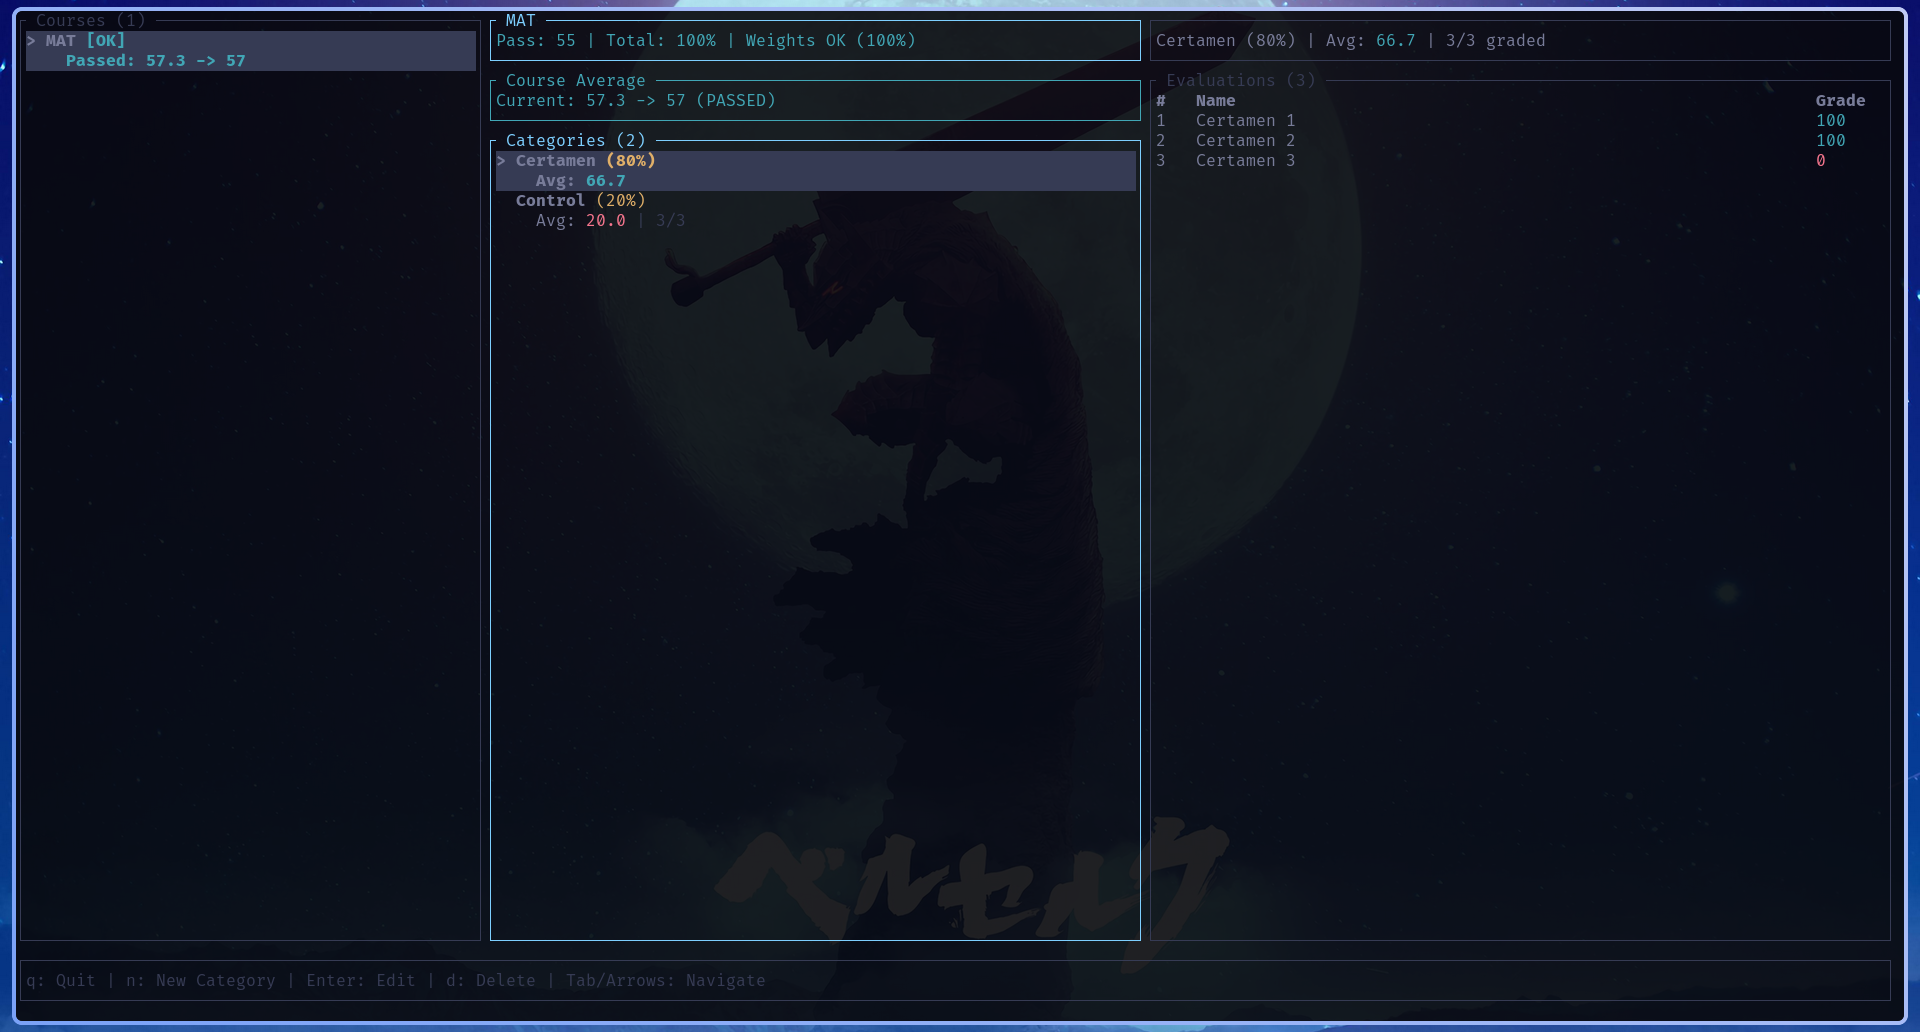
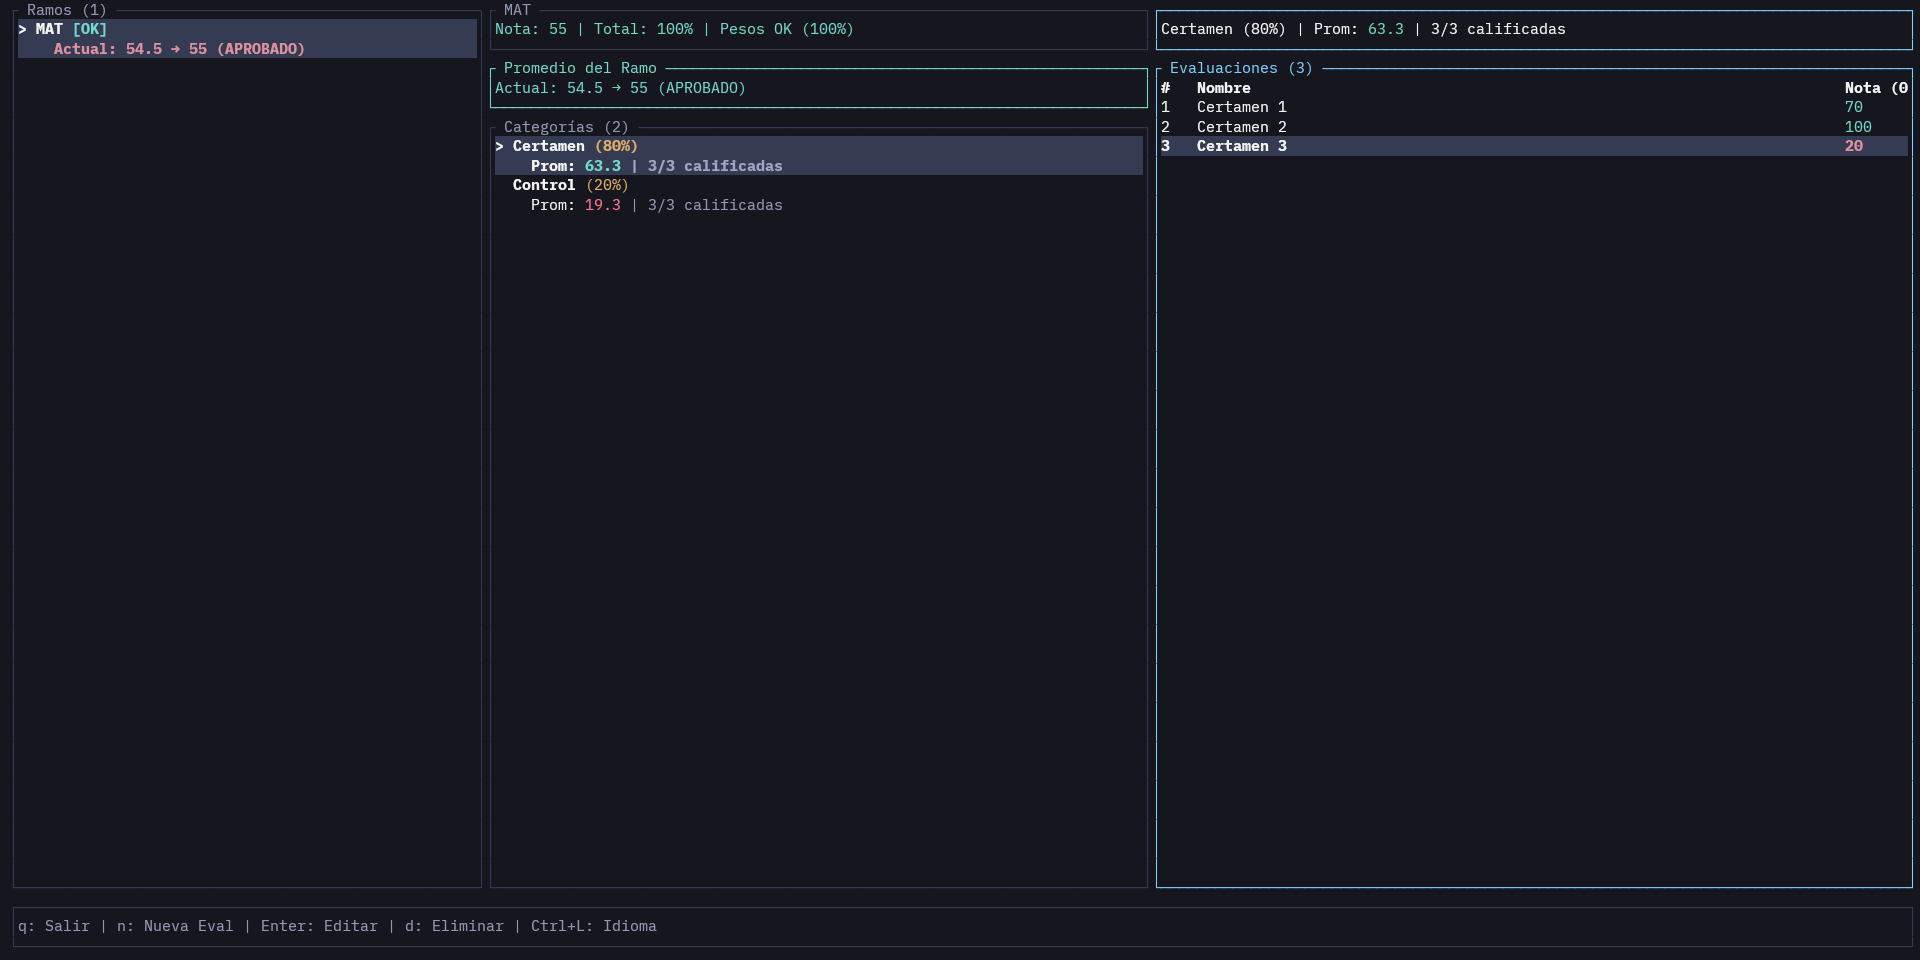
feat(core): improve grade calculation logic and UI feedback
- Change average calculation: treat ungraded evaluations as 0.0 instead of ignoring them.
- Update 'needed to pass' logic to target exact 54.5 passing score.
- Display needed grade with rounding guidance (e.g., '60.12 -> 61').
- Auto-clear grade input field when starting edit on an evaluation.
- Show needed grade calculation during edit by ignoring the current grade.
- Remove unused code and silence warnings.

Changed region(s): [[0.0, 0.0, 1.0, 1.0]]

diff --git a/src/ui.rs b/src/ui.rs
@@ -50,7 +50,7 @@ pub fn draw(frame: &mut Frame, app: &App) {
             draw_category_popup(frame, app, *is_new);
         }
         Screen::EditingEvaluation { is_new } => {
-            draw_evaluation_popup(frame, app, *is_new);
+            draw_evaluation_popup(frame, app, *is_new, !*is_new);
         }
         Screen::ConfirmDelete => {
             draw_delete_popup(frame, app);
@@ -637,7 +637,7 @@ fn draw_category_popup(frame: &mut Frame, app: &App, is_new: bool) {
     }
 }
 
-fn draw_evaluation_popup(frame: &mut Frame, app: &App, is_new: bool) {
+fn draw_evaluation_popup(frame: &mut Frame, app: &App, is_new: bool, is_editing: bool) {
     let m = app.messages();
     let area = centered_rect(60, 50, frame.size());
     frame.render_widget(Clear, area);
@@ -690,7 +690,7 @@ fn draw_evaluation_popup(frame: &mut Frame, app: &App, is_new: bool) {
         let info = if let (Some(cat_idx), Some(eval_idx)) =
             (app.selected_category, app.selected_evaluation)
         {
-            format_needed_for_evaluation(course, cat_idx, eval_idx, m)
+            format_needed_for_evaluation(course, cat_idx, eval_idx, m, is_editing)
         } else {
             format_course_status(course, m)
         };
@@ -947,44 +947,29 @@ use crate::model::Course;
 
 /// Format course status message with translations.
 fn format_course_status(course: &Course, m: &Messages) -> String {
-    let remaining_weight = course.remaining_weight();
-    let all_complete = course.categories.iter().all(|c| c.is_complete());
+    // Check if there are any evaluations at all
+    let has_evaluations = course.categories.iter().any(|c| !c.evaluations.is_empty());
 
-    if all_complete || remaining_weight <= 0.0 {
-        return match course.current_grade() {
-            Some(grade) => {
-                let rounded = Course::round_grade(grade);
-                if course.is_passing_grade(grade) {
-                    format!("{}: {:.1} → {:.0} ({})", m.passed, grade, rounded, m.passed)
-                } else {
-                    format!("{}: {:.1} → {:.0} ({})", m.failed, grade, rounded, m.failed)
-                }
-            }
-            None => m.no_evaluations.to_string(),
-        };
+    if !has_evaluations {
+        return m.no_evaluations.to_string();
     }
 
     match course.current_grade() {
-        Some(current) => {
-            let required = (course.passing_grade - current) * 100.0 / remaining_weight;
-
-            if required <= 0.0 {
-                format!("{}: {:.1} | {}", m.current, current, m.already_passing)
-            } else if required > 100.0 {
+        Some(grade) => {
+            let rounded = Course::round_grade(grade);
+            if course.is_passing_grade(grade) {
                 format!(
-                    "{}: {:.1} | {} ({:.1})",
-                    m.current, current, m.cannot_pass, required
+                    "{}: {:.1} → {:.0} ({})",
+                    m.current, grade, rounded, m.passed
                 )
             } else {
                 format!(
-                    "{}: {:.1} | {} {:.1} ({:.0}%)",
-                    m.current, current, m.need, required, remaining_weight
+                    "{}: {:.1} → {:.0} ({})",
+                    m.current, grade, rounded, m.failed
                 )
             }
         }
-        None => {
-            format!("{} {:.1} {}", m.need, course.passing_grade, m.to_pass)
-        }
+        None => m.no_evaluations.to_string(),
     }
 }
 
@@ -1025,6 +1010,7 @@ fn format_needed_for_evaluation(
     category_idx: usize,
     eval_idx: usize,
     m: &Messages,
+    is_editing: bool,
 ) -> String {
     let Some(category) = course.categories.get(category_idx) else {
         return m.invalid_category.to_string();
@@ -1034,64 +1020,75 @@ fn format_needed_for_evaluation(
         return m.invalid_evaluation.to_string();
     };
 
-    // If already graded, show that info
-    if let Some(grade) = eval.grade {
-        if grade >= course.passing_grade {
-            return format!("{}: {:.0} ({})", eval.name, grade, m.passing);
+    // If already graded and NOT editing, show that info
+    // When editing, we ignore the current grade to show what's needed
+    if !is_editing {
+        if let Some(grade) = eval.grade {
+            if grade >= course.passing_grade {
+                return format!("{}: {:.0} ({})", eval.name, grade, m.passing);
+            }
+            return format!("{}: {:.0} ({})", eval.name, grade, m.below_passing);
         }
-        return format!("{}: {:.0} ({})", eval.name, grade, m.below_passing);
     }
 
-    // Calculate current contributions from all categories
+    // Calculate total contribution from all categories, treating ungraded evals as 0
+    // except for the current evaluation we're calculating for
     let mut total_contribution = 0.0;
-    let mut total_weight_graded = 0.0;
 
     for (ci, cat) in course.categories.iter().enumerate() {
         if ci == category_idx {
-            let other_grades: Vec<f64> = cat
+            // For the current category, sum all other evaluations (ungraded = 0)
+            // When editing, we also treat the current evaluation as 0
+            let other_sum: f64 = cat
                 .evaluations
                 .iter()
                 .enumerate()
-                .filter(|(ei, e)| *ei != eval_idx && e.grade.is_some())
-                .filter_map(|(_, e)| e.grade)
-                .collect();
-
-            if !other_grades.is_empty() {
-                let other_avg = other_grades.iter().sum::<f64>() / other_grades.len() as f64;
-                let graded_count = other_grades.len();
-                let total_evals = cat.evaluations.len();
-                let partial_weight = cat.weight * (graded_count as f64 / total_evals as f64);
-                total_contribution += other_avg * partial_weight / 100.0;
-                total_weight_graded += partial_weight;
+                .map(|(ei, e)| {
+                    if ei == eval_idx {
+                        0.0 // Always treat current eval as 0 for calculation
+                    } else {
+                        e.grade.unwrap_or(0.0)
+                    }
+                })
+                .sum();
+            // This will be added later with the needed grade
+            total_contribution += other_sum * cat.weight / (100.0 * cat.evaluations.len() as f64);
+        } else {
+            // For other categories, all ungraded evals count as 0
+            if !cat.evaluations.is_empty() {
+                let sum: f64 = cat.evaluations.iter().map(|e| e.grade.unwrap_or(0.0)).sum();
+                let avg = sum / cat.evaluations.len() as f64;
+                total_contribution += avg * cat.weight / 100.0;
             }
-        } else if let Some(avg) = cat.average_grade() {
-            total_contribution += avg * cat.weight / 100.0;
-            total_weight_graded += cat.weight;
         }
     }
 
-    let eval_weight = category.weight / category.evaluations.len() as f64;
-    let remaining_weight = 100.0 - total_weight_graded;
+    // Weight of this single evaluation in the final grade
+    let eval_weight = category.weight / (100.0 * category.evaluations.len() as f64);
 
-    if remaining_weight <= 0.0 {
-        return m.all_evaluations_graded.to_string();
-    }
-
-    let effective_passing = course.passing_grade - 0.5;
-    let other_remaining_weight = remaining_weight - eval_weight;
-    let other_remaining_contribution = effective_passing * other_remaining_weight / 100.0;
-
-    let needed_contribution = effective_passing - total_contribution - other_remaining_contribution;
-    let needed_grade = needed_contribution * 100.0 / eval_weight;
+    // We need: total_contribution + (needed_grade * eval_weight) >= 54.5
+    // So: needed_grade = (54.5 - total_contribution) / eval_weight
+    let effective_passing = course.passing_grade - 0.5; // 54.5
+    let needed_grade = (effective_passing - total_contribution) / eval_weight;
 
     if needed_grade <= 0.0 {
         format!("{}: 0+ ({})", m.need, m.need_grade_any)
     } else if needed_grade > 100.0 {
+        let rounded_up = needed_grade.ceil() as i32;
         format!(
-            "{}: {:.0}+ ({})",
-            m.need, needed_grade, m.need_grade_impossible
+            "{}: {:.2} → {} ({})",
+            m.need, needed_grade, rounded_up, m.need_grade_impossible
         )
     } else {
-        format!("{} {:.0}+ {}", m.need, needed_grade, m.need_grade_in_eval)
+        let rounded_up = needed_grade.ceil() as i32;
+        // Only show arrow if there are decimals
+        if (needed_grade - needed_grade.floor()).abs() < 0.01 {
+            format!("{} {} {}", m.need, rounded_up, m.need_grade_in_eval)
+        } else {
+            format!(
+                "{} {:.2} → {} {}",
+                m.need, needed_grade, rounded_up, m.need_grade_in_eval
+            )
+        }
     }
 }

diff --git a/src/model.rs b/src/model.rs
@@ -79,15 +79,19 @@ impl Category {
         }
     }
 
-    /// Calculate the average grade of all graded evaluations in this category.
-    /// Returns None if no evaluations have been graded.
+    /// Calculate the average grade of all evaluations in this category.
+    /// Ungraded evaluations are treated as 0.
+    /// Returns None if there are no evaluations.
     pub fn average_grade(&self) -> Option<f64> {
-        let graded: Vec<f64> = self.evaluations.iter().filter_map(|e| e.grade).collect();
-
-        if graded.is_empty() {
+        if self.evaluations.is_empty() {
             None
         } else {
-            Some(graded.iter().sum::<f64>() / graded.len() as f64)
+            let total: f64 = self
+                .evaluations
+                .iter()
+                .map(|e| e.grade.unwrap_or(0.0))
+                .sum();
+            Some(total / self.evaluations.len() as f64)
         }
     }
 
@@ -103,11 +107,6 @@ impl Category {
             .iter()
             .filter(|e| e.grade.is_some())
             .count()
-    }
-
-    /// Returns true if all evaluations in this category have been graded.
-    pub fn is_complete(&self) -> bool {
-        !self.evaluations.is_empty() && self.graded_count() == self.evaluations.len()
     }
 
     /// Check if category average is passing
@@ -169,34 +168,25 @@ impl Course {
         }
     }
 
-    /// Calculate the current weighted grade based on graded evaluations.
-    /// Only considers categories that have at least one graded evaluation.
+    /// Calculate the current weighted grade based on all evaluations.
+    /// Ungraded evaluations are treated as 0.
+    /// Returns None if there are no categories with evaluations.
     pub fn current_grade(&self) -> Option<f64> {
-        let contributions: Vec<f64> = self
+        let categories_with_evals: Vec<&Category> = self
             .categories
             .iter()
-            .filter_map(Category::weighted_contribution)
+            .filter(|c| !c.evaluations.is_empty())
             .collect();
 
-        if contributions.is_empty() {
+        if categories_with_evals.is_empty() {
             None
         } else {
-            Some(contributions.iter().sum())
+            let total: f64 = categories_with_evals
+                .iter()
+                .filter_map(|c| c.weighted_contribution())
+                .sum();
+            Some(total)
         }
-    }
-
-    /// Calculate the total weight of categories that have been graded.
-    pub fn graded_weight(&self) -> f64 {
-        self.categories
-            .iter()
-            .filter(|c| c.average_grade().is_some())
-            .map(|c| c.weight)
-            .sum()
-    }
-
-    /// Calculate the remaining weight percentage not yet graded.
-    pub fn remaining_weight(&self) -> f64 {
-        100.0 - self.graded_weight()
     }
 
     /// Get total weight of all categories.
@@ -314,10 +304,29 @@ mod tests {
             .push(Evaluation::with_grade("Test 1".to_string(), 70.0));
         cat.evaluations
             .push(Evaluation::with_grade("Test 2".to_string(), 80.0));
-        cat.evaluations.push(Evaluation::new("Test 3".to_string())); // Not graded
+        cat.evaluations.push(Evaluation::new("Test 3".to_string())); // Not graded = 0
 
-        // Average of graded evaluations: (70 + 80) / 2 = 75
+        // Average with ungraded as 0: (70 + 80 + 0) / 3 = 50
+        assert!((cat.average_grade().unwrap() - 50.0).abs() < 0.01);
+    }
+
+    #[test]
+    fn test_category_average_all_graded() {
+        let mut cat = Category::new("Tests".to_string(), 60.0);
+        cat.evaluations
+            .push(Evaluation::with_grade("Test 1".to_string(), 70.0));
+        cat.evaluations
+            .push(Evaluation::with_grade("Test 2".to_string(), 80.0));
+
+        // Average: (70 + 80) / 2 = 75
         assert!((cat.average_grade().unwrap() - 75.0).abs() < 0.01);
+    }
+
+    #[test]
+    fn test_category_average_empty() {
+        let cat = Category::new("Tests".to_string(), 60.0);
+        // No evaluations = None
+        assert!(cat.average_grade().is_none());
     }
 
     #[test]

diff --git a/src/i18n.rs b/src/i18n.rs
@@ -46,11 +46,9 @@ pub struct Messages {
     pub failed: &'static str,
     pub current: &'static str,
     pub need: &'static str,
-    pub to_pass: &'static str,
     pub already_passing: &'static str,
     pub cannot_pass: &'static str,
     pub no_evaluations: &'static str,
-    pub all_evaluations_graded: &'static str,
 
     // Weight validation
     pub weights_ok: &'static str,
@@ -160,11 +158,9 @@ pub const EN: Messages = Messages {
     failed: "FAILED",
     current: "Current",
     need: "Need",
-    to_pass: "to pass",
     already_passing: "Already passing!",
     cannot_pass: "Cannot pass",
     no_evaluations: "No evaluations",
-    all_evaluations_graded: "All evaluations graded",
 
     // Weight validation
     weights_ok: "Weights OK (100%)",
@@ -274,11 +270,9 @@ pub const ES: Messages = Messages {
     failed: "REPROBADO",
     current: "Actual",
     need: "Necesitas",
-    to_pass: "para aprobar",
     already_passing: "¡Ya estás aprobando!",
     cannot_pass: "No puedes aprobar",
     no_evaluations: "Sin evaluaciones",
-    all_evaluations_graded: "Todas las evaluaciones calificadas",
 
     // Weight validation
     weights_ok: "Pesos OK (100%)",

diff --git a/src/app.rs b/src/app.rs
@@ -529,17 +529,14 @@ impl App {
     }
 
     pub fn start_edit_evaluation(&mut self) {
-        let Some((name, grade)) = self
-            .current_evaluation()
-            .map(|eval| (eval.name.clone(), eval.grade))
-        else {
+        let Some(name) = self.current_evaluation().map(|eval| eval.name.clone()) else {
             return;
         };
 
         self.screen = Screen::EditingEvaluation { is_new: false };
         self.input_field = InputField::Grade; // Start with grade field
         self.edit_name = name;
-        self.edit_grade = grade.map(|g| format!("{g:.0}")).unwrap_or_default();
+        self.edit_grade.clear(); // Always start with empty grade field
     }
 
     pub fn confirm_evaluation(&mut self) {
